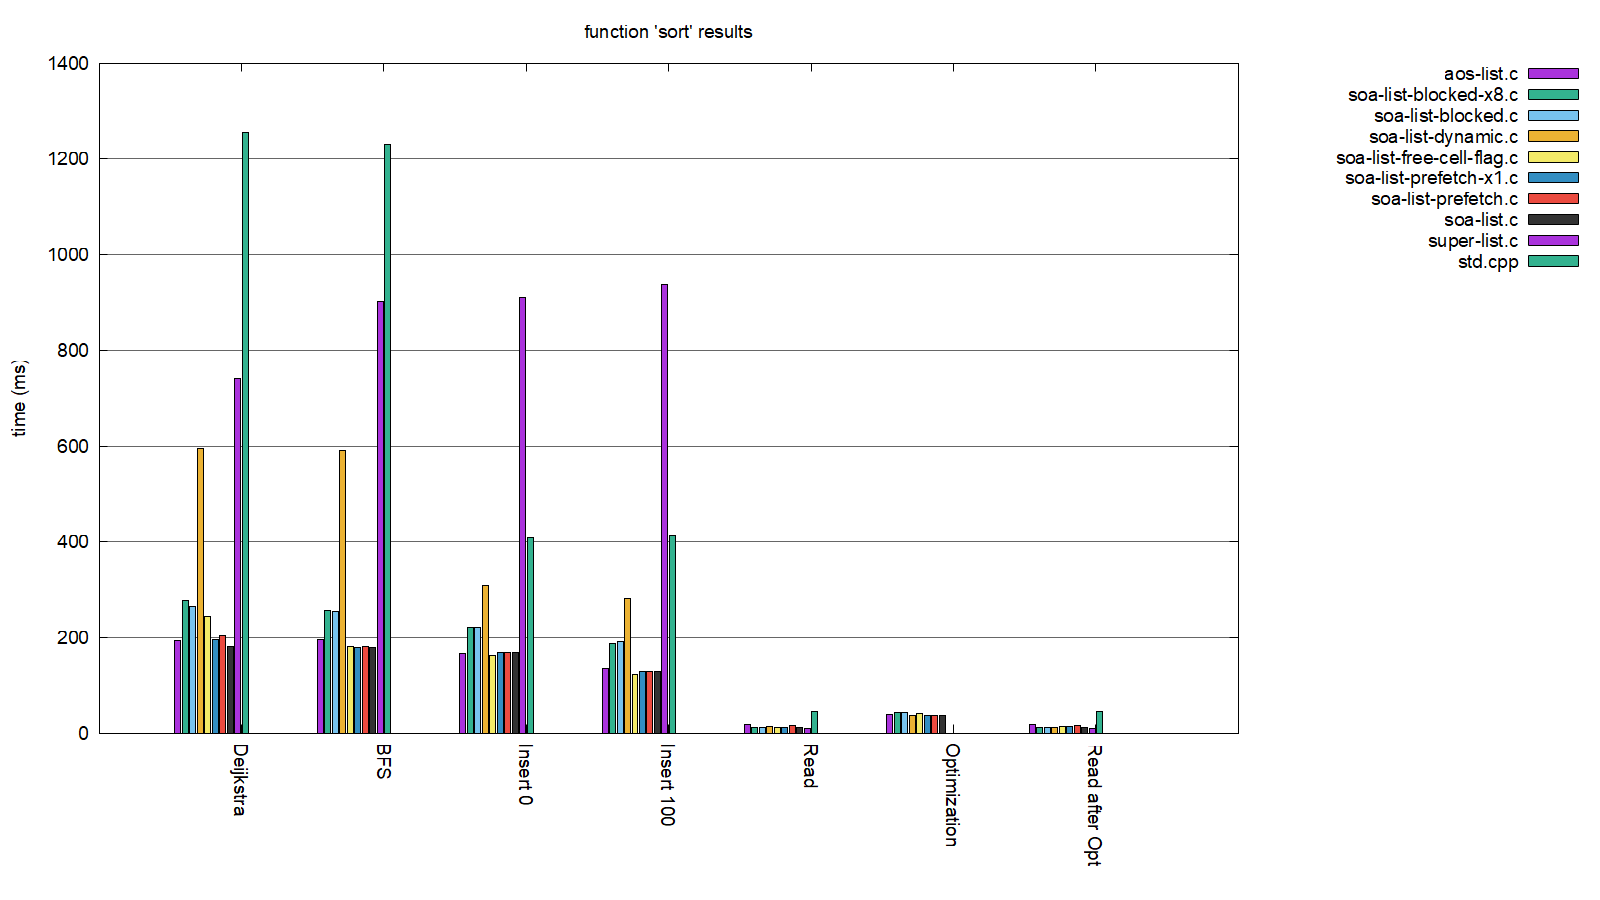
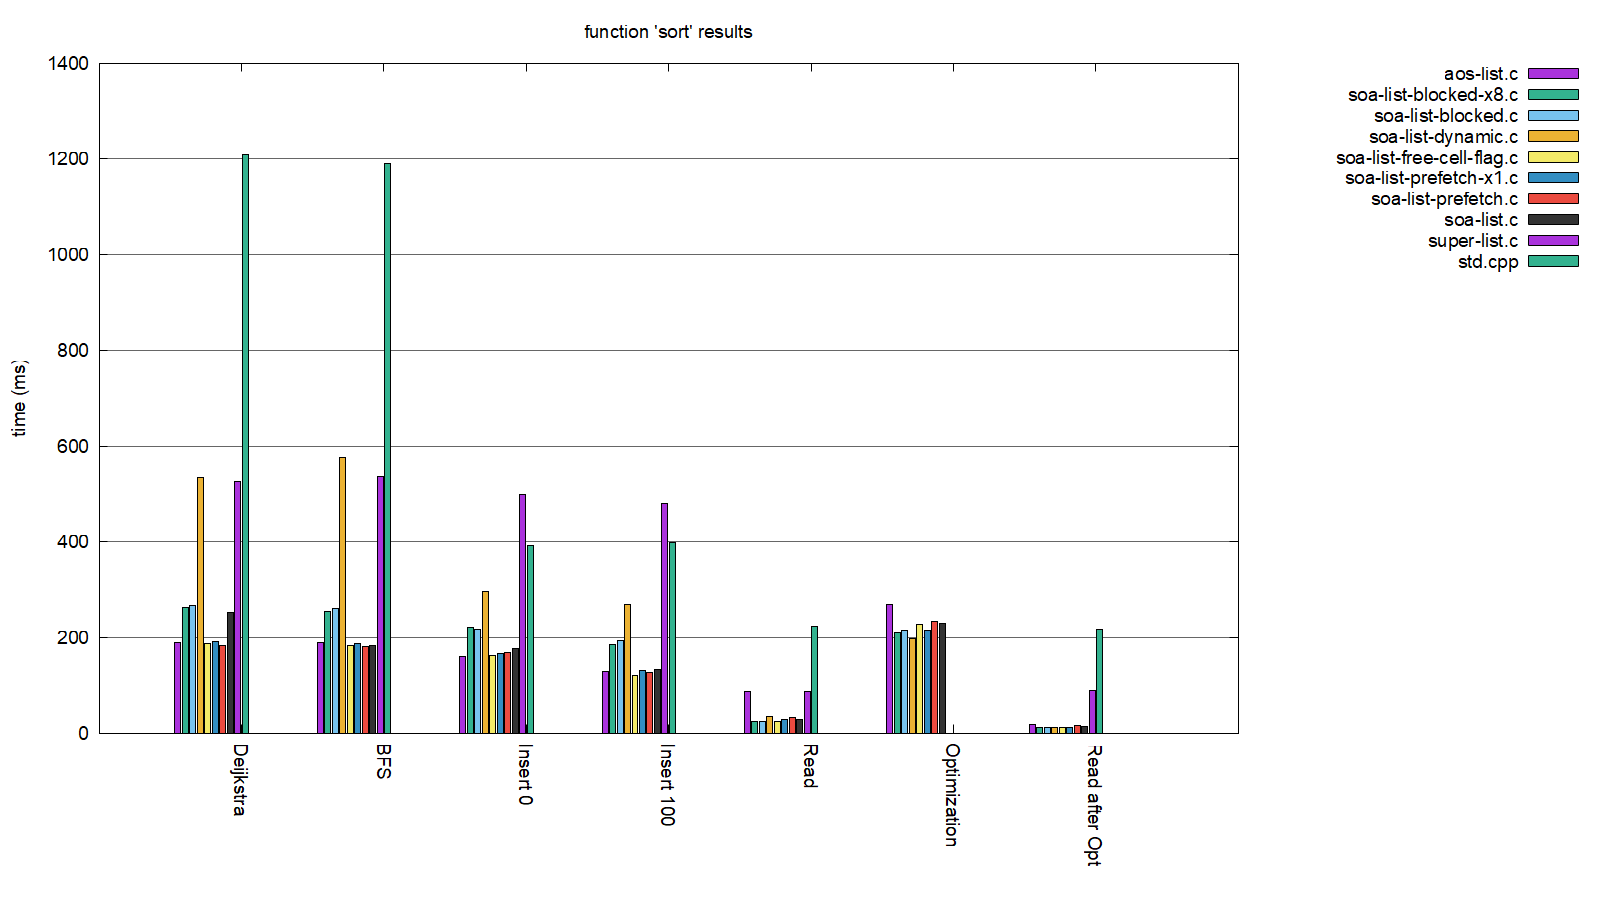
fix one more bug, but now, super_list is too slow

diff --git a/super_list.c b/super_list.c
@@ -24,11 +24,11 @@
 // #define DPRINTF printf
 
 
-#define ITEM_SIZE 32
+#define ITEM_SIZE 16
 #define ITEM_VALUES_COUNT (ITEM_SIZE - 3)
 #define ITEM_MIN_VALUES_COUNT (ITEM_VALUES_COUNT / 2)
 
-#define ITERATOR_SHIFT 5
+#define ITERATOR_SHIFT 4
 
 struct expanded_iterator_t
 {
@@ -39,7 +39,7 @@ __attribute__((always_inline)) __inline__
 void deconstruct_iterator(iterator_t it, int *block, int *item)
 {
     *block = (it >> ITERATOR_SHIFT);
-    *item = (it & (-1 & ((1 << ITERATOR_SHIFT) - 1)));
+    *item = (it & ((1 << ITERATOR_SHIFT) - 1));
 }
 
 __attribute__((always_inline)) __inline__ 
@@ -184,6 +184,7 @@ iterator_t list_next(struct list_t *lst, iterator_t it)
     int block, index;
     deconstruct_iterator(it, &block, &index);
     index++;
+    assert(index <= lst->items[block].size);
     if (index == lst->items[block].size)
     {
         return construct_iterator(lst->items[block].next, 0);
@@ -195,6 +196,7 @@ iterator_t list_prev(struct list_t *lst, iterator_t it)
 {
     int block, index;
     deconstruct_iterator(it, &block, &index);
+    assert(index <= lst->items[block].size);
     if (index == 0)
     {
         return construct_iterator(lst->items[block].prev, lst->items[lst->items[block].prev].size - 1);
@@ -370,11 +372,22 @@ iterator_t list_remove(struct list_t *lst, iterator_t it)
 
     /* remove element from node */
     int size = lst->items[block].size;
-    memmove(lst->items[block].value + index, lst->items[block].value + index + 1, sizeof(*lst->items[block].value) * (size - index));
 
+    assert(size > 1);
+    assert(index < size);
+    
     /* update sizes */
     lst->size--;
     lst->items[block].size--;
+    
+    /* return next iterator */
+    if (index + 1 == size)
+    {
+        return construct_iterator(lst->items[block].next, 0);
+    }
+    
+    memmove(lst->items[block].value + index, lst->items[block].value + index + 1, sizeof(*lst->items[block].value) * (size - index));
+
     DPRINTF("new size of %d is %d\n", block, lst->items[block].size);
     DPRINTF("items %d %d [%d]\n", lst->items[block].value[0], lst->items[block].value[1], lst->items[block].value[2]);
     

diff --git a/test.cpp b/test.cpp
@@ -322,10 +322,14 @@ list_t *build_nonlinear_list(int size)
                 del.push_back(list_get(lst, it));
                 it = list_remove(lst, it);
             }
+            else
+            {
+                it = list_next(lst, it);
+            }
         }
-        for (int i : del)
+        for (int i = del.size() - 1; i >= 0; --i)
         {
-            list_insert(lst, list_head(lst), i);
+            list_insert(lst, list_head(lst), del[i]);
         }
     }
     // for (int i = 0; i < size; ++i)
